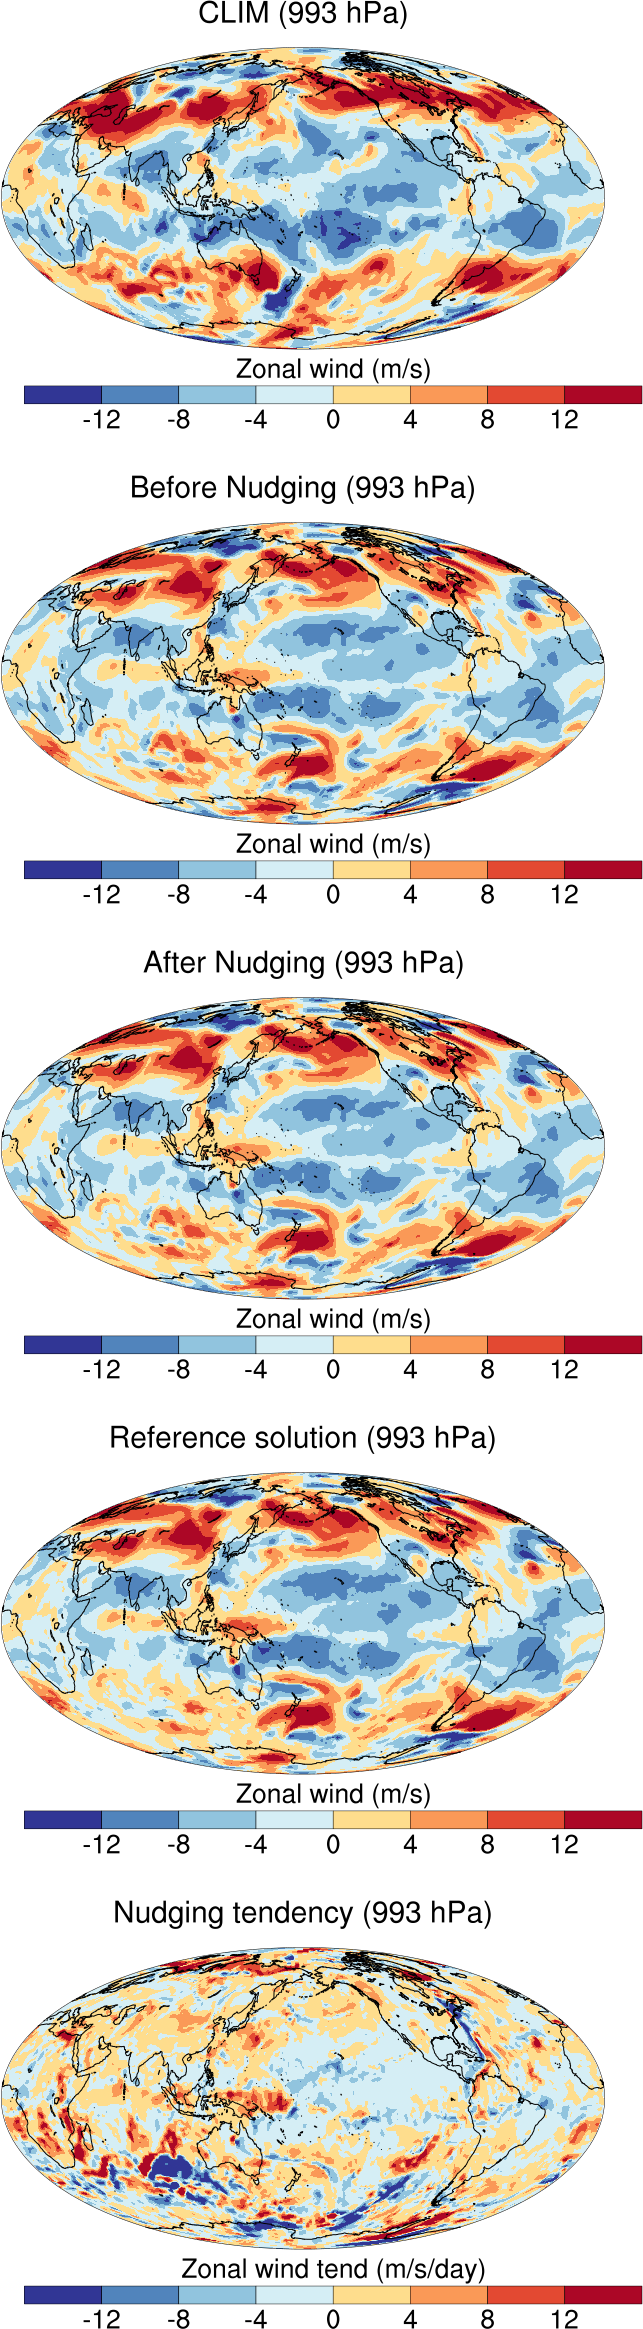
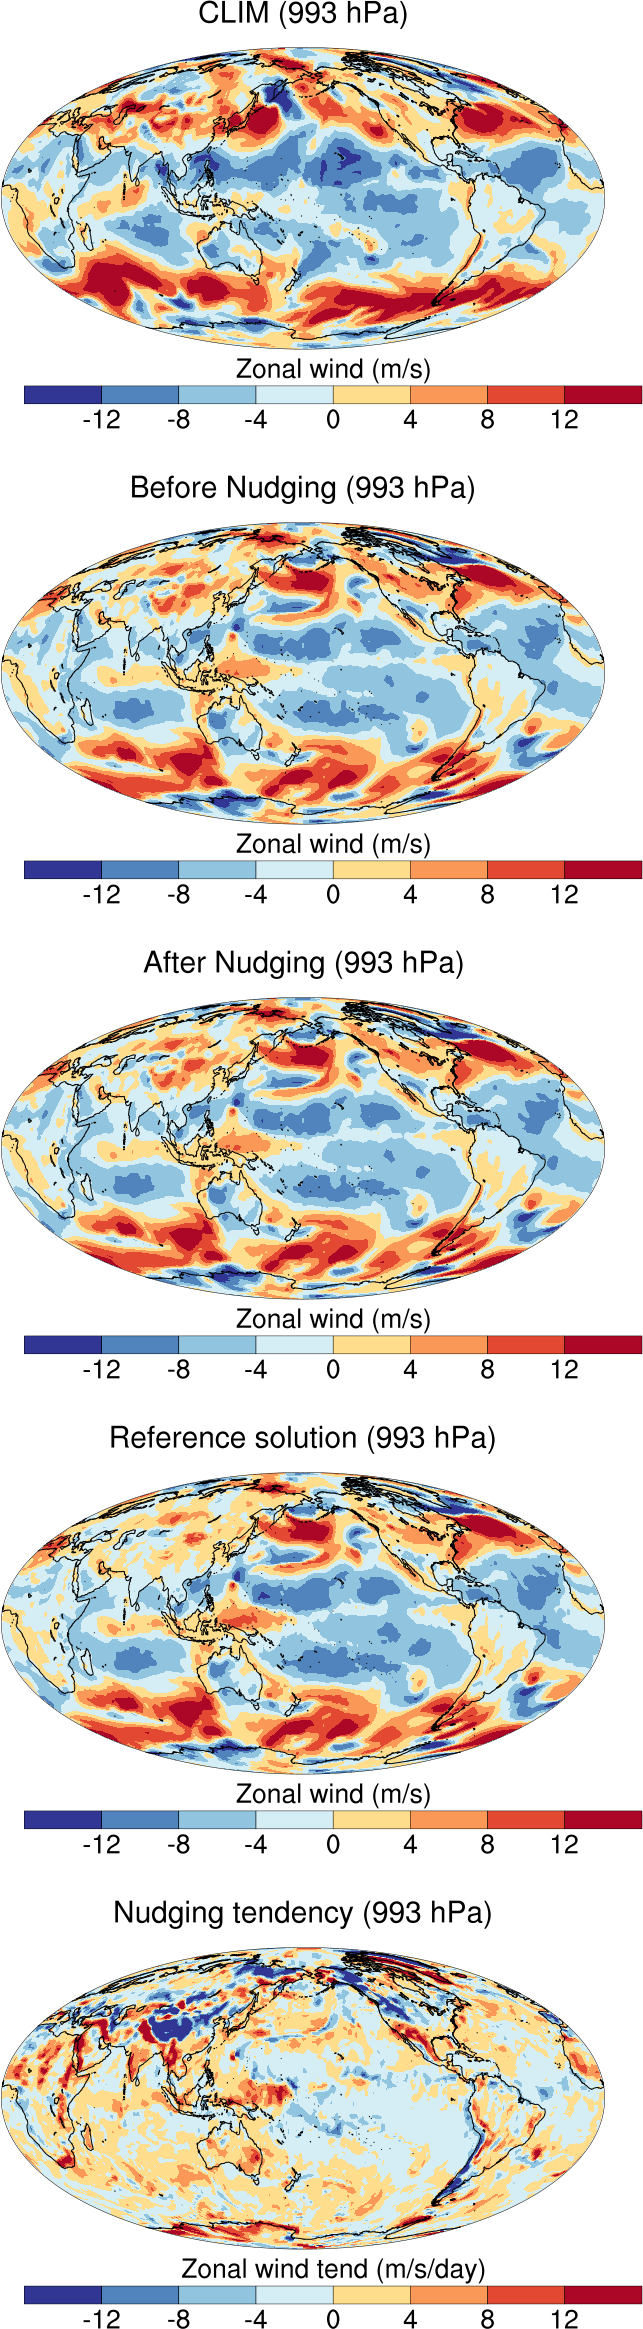
update the script

diff --git a/script/e3sm_view_example_regrid_180x360.py b/script/e3sm_view_example_regrid_180x360.py
@@ -82,7 +82,7 @@ def main():
     varName = 'U'
     varDesc = 'Zonal wind'
     varUnit = 'm/s'
-    itime   = 0
+    itime   = 1455
     ilev    = 70
 
     minval  = -12.0
@@ -106,18 +106,18 @@ def main():
     for i in range(len(expname)):
         print ('working on ' + expname[i])
         ds = xr.open_dataset(filname[i])
-        lat = ds.lat[::-1]
+        lat = ds.lat[:]
         lon = ds.lon[:]
         lev = ds.lev[:]
 
         if i == 4: 
             varName = 'Nudge_' + varName 
-            tmp = ds.variables[varName][itime,ilev,::-1,:]
+            tmp = ds.variables[varName][itime,ilev,:,:]
             varUnit = varUnit + '/day'
             varDesc = varDesc +  ' tend'
             tmp = tmp * 86400.0
         else:
-            tmp = ds.variables[varName][itime,ilev,::-1,:]
+            tmp = ds.variables[varName][itime,ilev,:,:]
         
         var = Ngl.add_cyclic(tmp[:,:])  #-- add cyclic points
         

diff --git a/script/e3sm_view_example_default_ne30pg2.py b/script/e3sm_view_example_default_ne30pg2.py
@@ -82,7 +82,7 @@ def main():
     varName = 'U'
     varDesc = 'Zonal wind'
     varUnit = 'm/s'
-    itime   = 0
+    itime   = 1455
     ilev    = 70
 
     minval  = -12.0
